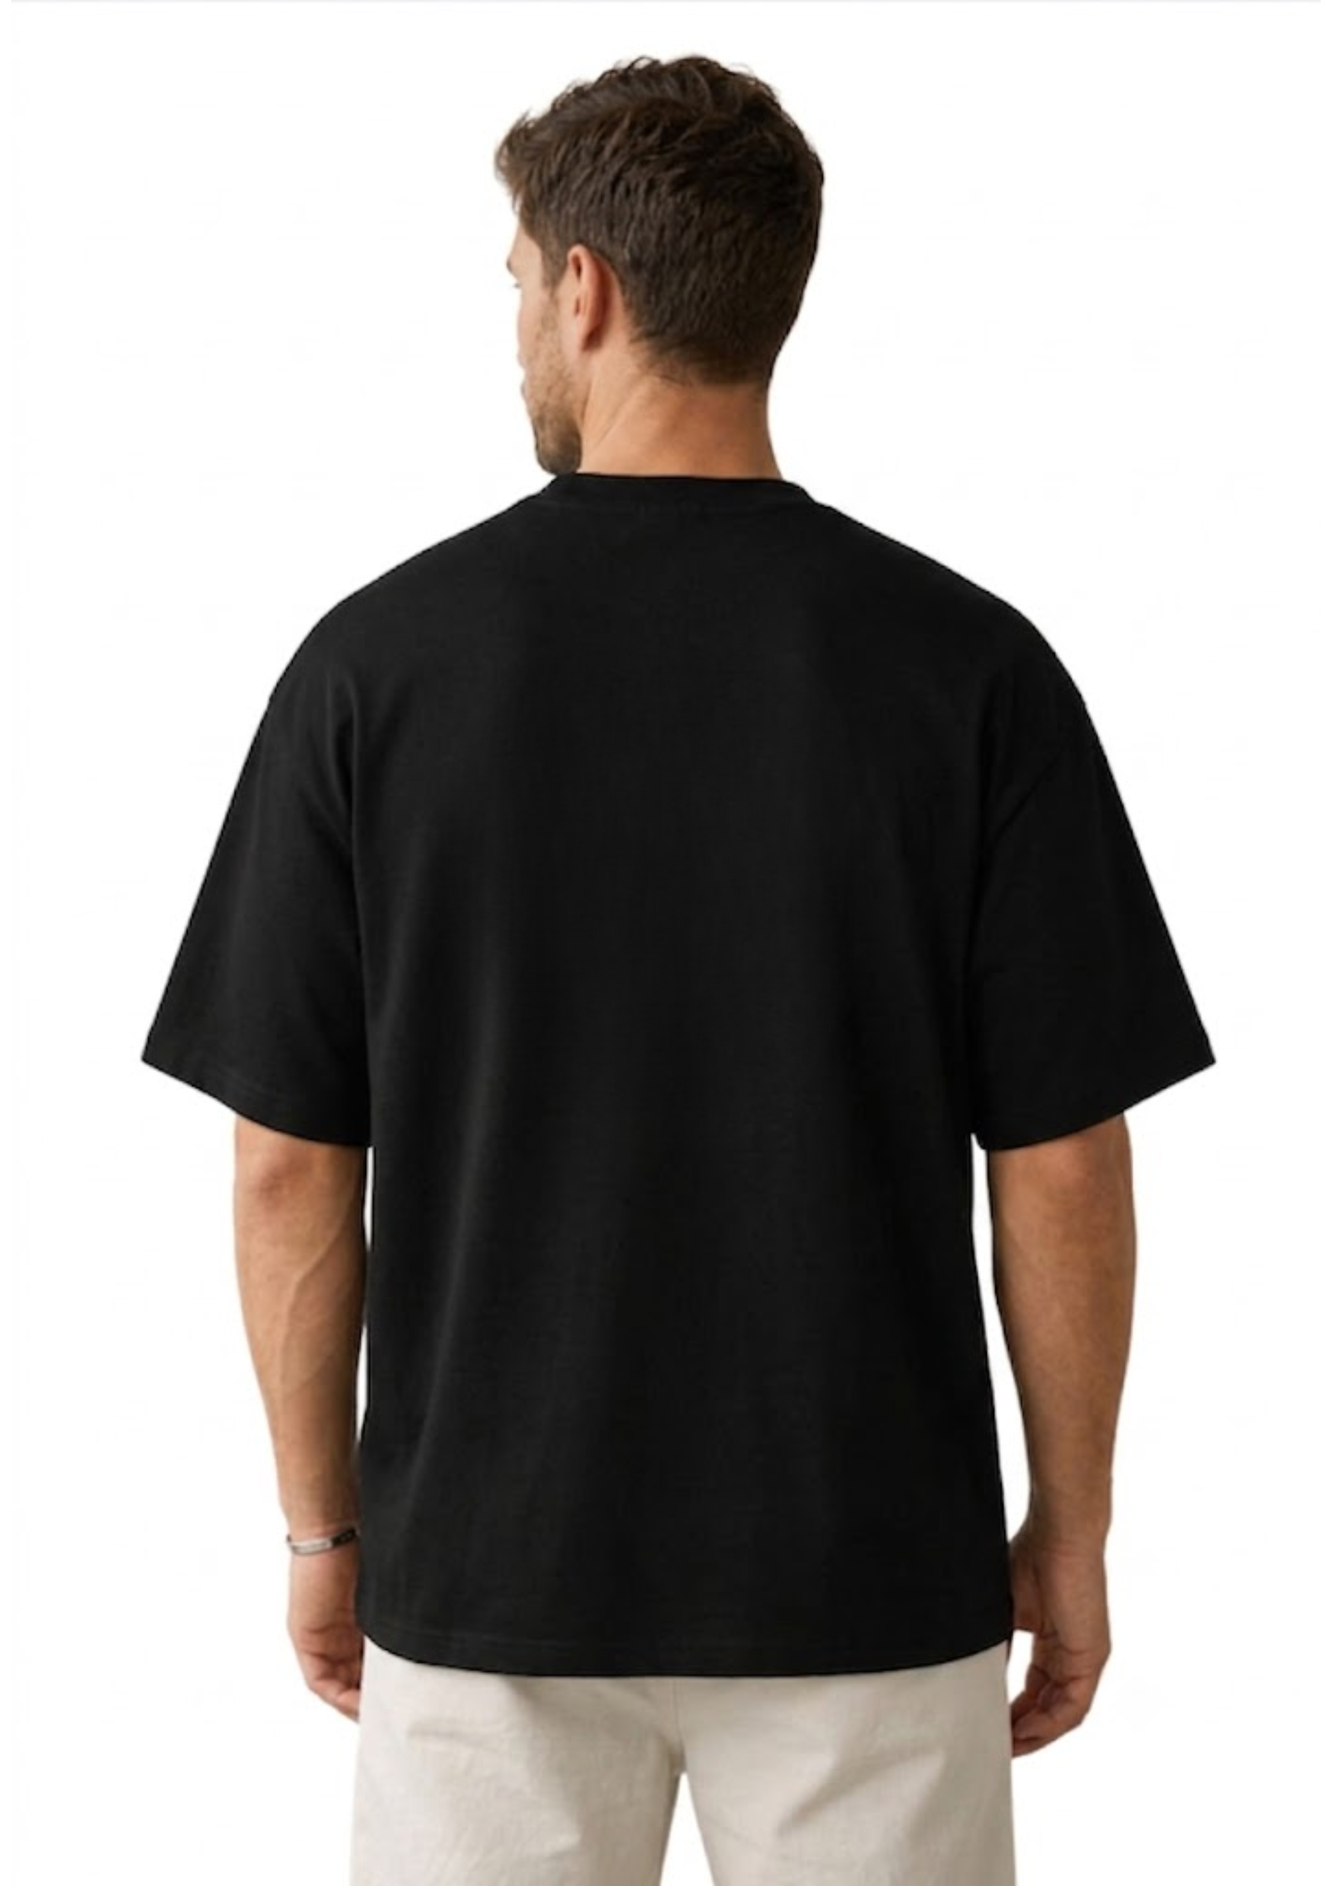
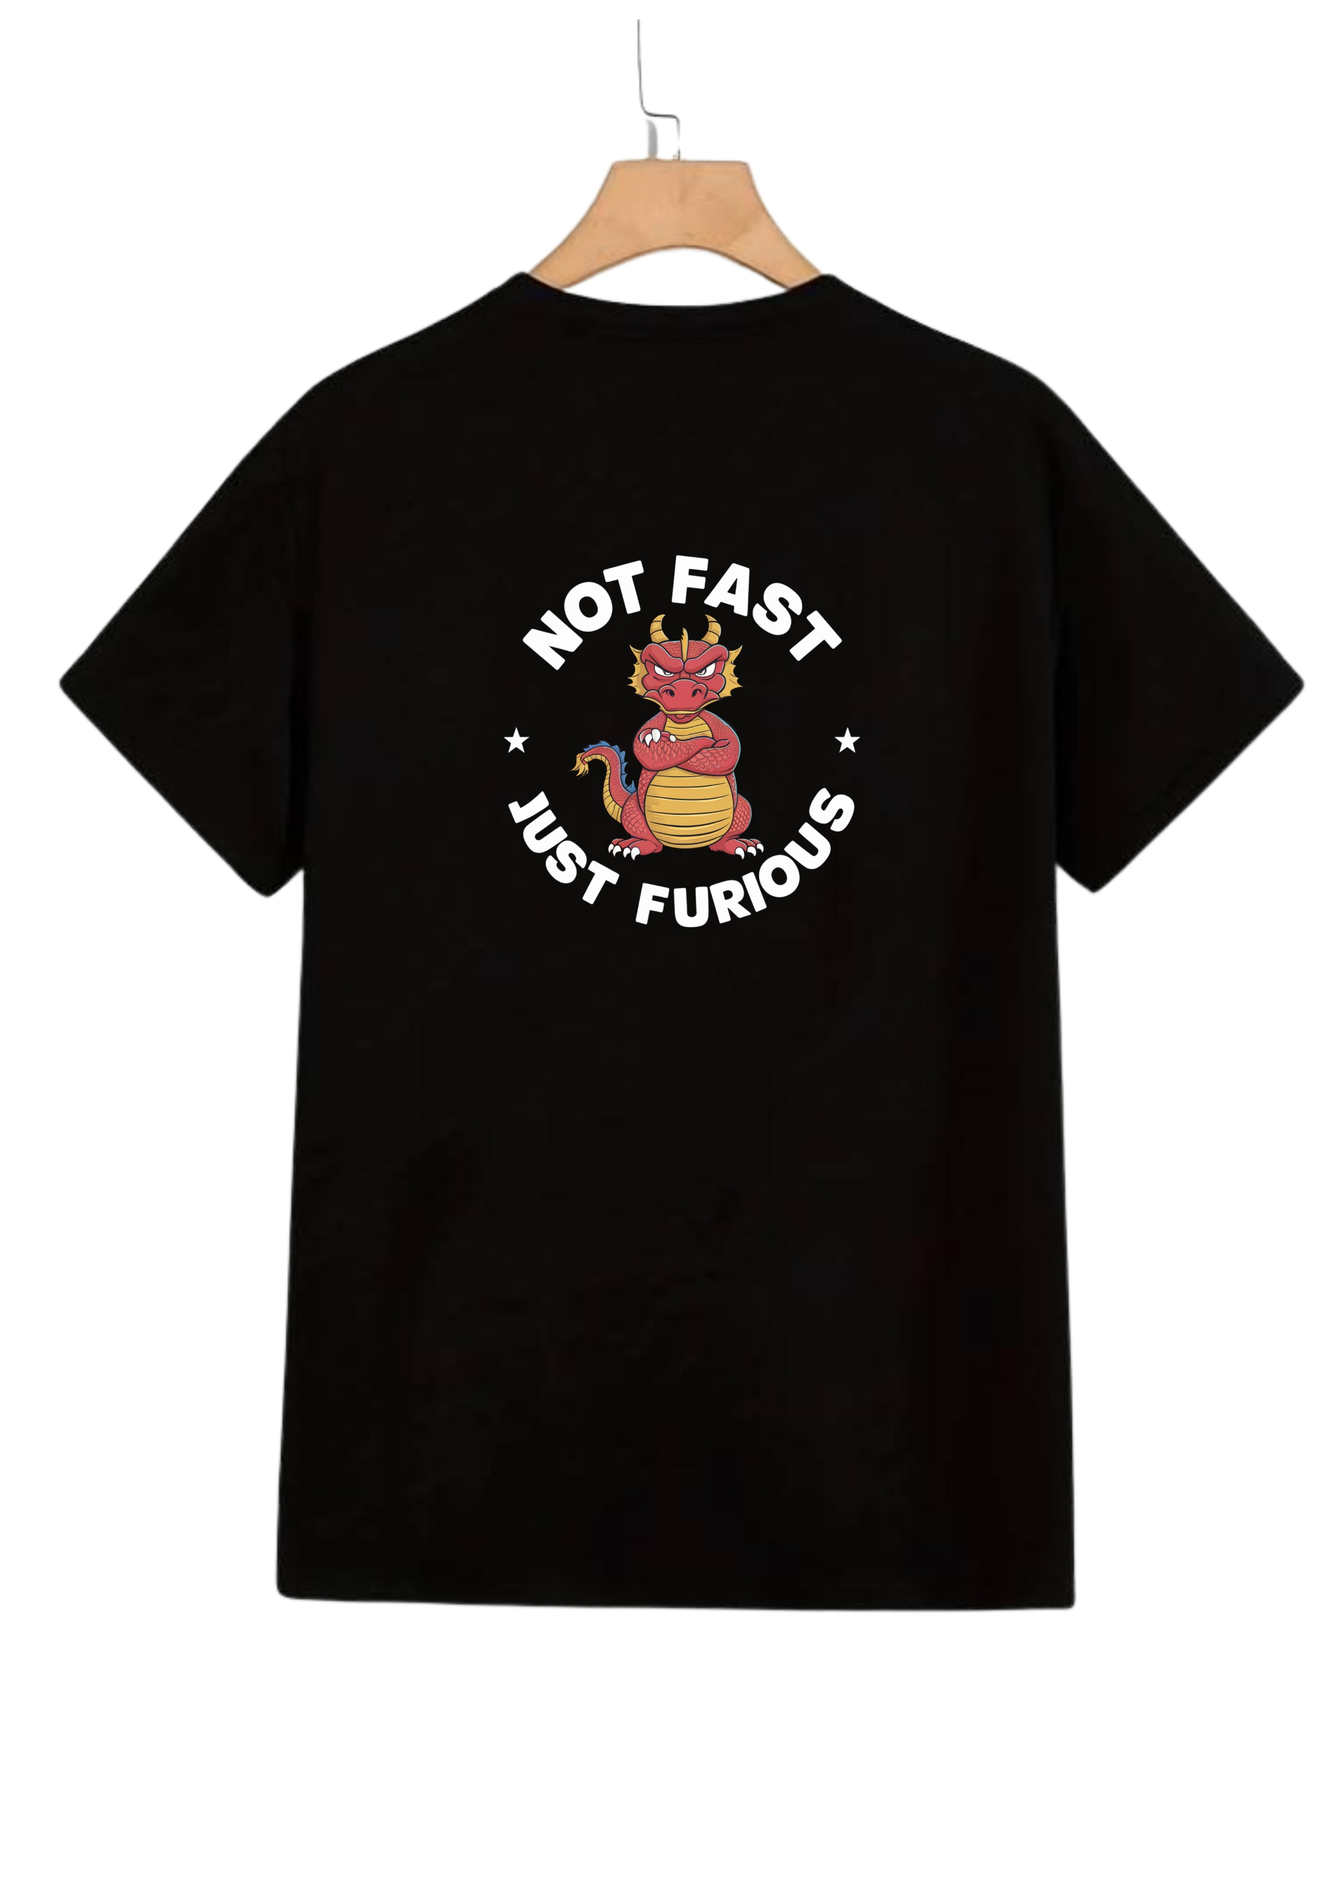
update pictures

diff --git a/assets/generated-products.js b/assets/generated-products.js
@@ -1,1 +1,1 @@
-window.TANVRA_PRODUCTS=[{"id":"oversized-rojana-ek-ghanta","slug":"rojana-ek-ghanta","category":"oversized","name":"Rojana Ek Ghanta Oversized Tee","subtitle":"220 GSM • 100% Cotton • Oversized Fit","price":749,"compareAt":749,"badge":"ODISHA EDITION","fit":"Oversized","gsm":"220 GSM","material":"100% Cotton","print":"Front + back graphic","description":"One hour. Every day. An Odisha-inspired edition celebrating consistency, movement and personal progress, built on our heavyweight 220 GSM oversized silhouette.","sizes":["S","M","L","XL"],"colors":[{"name":"Black","hex":"#111111","image":"products/oversized/rojana-ek-ghanta/front-black-tee.webp"},{"name":"White","hex":"#f4f4f4","image":"products/oversized/rojana-ek-ghanta/front-white-tee.webp"}],"images":["products/oversized/rojana-ek-ghanta/front-black-tee.webp","products/oversized/rojana-ek-ghanta/front-white-tee.webp","products/oversized/rojana-ek-ghanta/back-black-tee.webp","products/oversized/rojana-ek-ghanta/back-white-tee.webp"],"cardImage":"products/oversized/rojana-ek-ghanta/front-black-tee.webp","heroImage":"products/oversized/rojana-ek-ghanta/front-black-tee.webp","featured":true,"sort":1,"collection":"ROJANA EK GHANTA","printTier":"A3"},{"id":"oversized-edge-01","slug":"edge-01","category":"oversized","name":"EDGE-01 Oversized Tee","subtitle":"220 GSM • 100% Cotton • Oversized Fit","price":599,"compareAt":599,"badge":"CORE","fit":"Oversized","gsm":"220 GSM","material":"100% Cotton","print":"Minimal / no large graphic","description":"Built around the silhouette that defines modern streetwear. Heavyweight 220 GSM cotton with a relaxed oversized shape, soft hand-feel and everyday durability. Minimal by design, so the fit does the talking.","sizes":["S","M","L","XL"],"colors":[{"name":"Black","hex":"#111111","image":"products/oversized/edge-01/008-black-model-front.webp"},{"name":"Cream","hex":"#efe3ca","image":"products/oversized/edge-01/004-cream-front.webp"}],"images":["products/oversized/edge-01/008-black-model-front.webp","products/oversized/edge-01/002-black-front.webp","products/oversized/edge-01/003-black-back.webp","products/oversized/edge-01/004-cream-front.webp","products/oversized/edge-01/005-cream-back.webp","products/oversized/edge-01/006-black-front-details.webp","products/oversized/edge-01/007-black-back-detail.webp","products/oversized/edge-01/008-neck-label.webp","products/oversized/edge-01/001-cover.png","products/oversized/edge-01/002-black-front.png","products/oversized/edge-01/003-black-back.png","products/oversized/edge-01/004-cream-front.png","products/oversized/edge-01/005-cream-back.png"],"cardImage":"products/oversized/edge-01/001-cover.png","heroImage":"products/oversized/edge-01/001-cover.png","featured":true,"sort":5,"collection":"ESSENTIALS","printTier":"PLAIN"},{"id":"oversized-core-220","slug":"core-220","category":"oversized","name":"Core 220 Oversized Tee","subtitle":"220 GSM • 100% Cotton • Oversized Fit","price":549,"compareAt":549,"badge":"CORE","fit":"Oversized","gsm":"220 GSM","material":"100% Cotton","print":"Minimal / no large graphic","description":"Built around the silhouette that defines modern streetwear. Heavyweight 220 GSM cotton with a relaxed oversized shape, soft hand-feel and everyday durability. Minimal by design, so the fit does the talking.","sizes":["S","M","L","XL"],"colors":[{"name":"Black","hex":"#111111","image":"products/oversized/core-220/front-black.webp"},{"name":"Beige","hex":"#d8b36f","image":"products/oversized/core-220/front-beige.webp"},{"name":"White","hex":"#f5f5f5","image":"products/oversized/core-220/front-white.webp"},{"name":"Avocado Green","hex":"#446b18","image":"products/oversized/core-220/front-green.webp"}],"images":["products/oversized/core-220/front-beige.webp","products/oversized/core-220/front-black.webp","products/oversized/core-220/front-green.webp","products/oversized/core-220/front-white.webp"],"cardImage":"products/oversized/core-220/front-beige.webp","heroImage":"products/oversized/core-220/front-beige.webp","featured":false,"sort":100,"collection":"ESSENTIALS","printTier":"PLAIN"},{"id":"oversized-ghost-compass","slug":"ghost-compass","category":"oversized","name":"Ghost Compass Oversized Tee","subtitle":"220 GSM • 100% Cotton • Oversized Fit","price":699,"compareAt":699,"badge":"DROP 01","fit":"Oversized","gsm":"220 GSM","material":"100% Cotton","print":"Back graphic","description":"Direction is not always obvious. A statement back graphic built around instinct, exploration and choosing your own route, printed on heavyweight cotton with an oversized streetwear silhouette.","sizes":["S","M","L","XL"],"colors":[{"name":"Black","hex":"#111111","image":"products/oversized/ghost-compass/back-black.webp"},{"name":"Beige","hex":"#d8b36f","image":"products/oversized/ghost-compass/back-beige.webp"},{"name":"White","hex":"#f5f5f5","image":"products/oversized/ghost-compass/back-white.webp"},{"name":"Avocado Green","hex":"#446b18","image":"products/oversized/ghost-compass/back-green.webp"}],"images":["products/oversized/ghost-compass/back-beige.webp","products/oversized/ghost-compass/back-black.webp","products/oversized/ghost-compass/back-green.webp","products/oversized/ghost-compass/back-white.webp"],"cardImage":"products/oversized/ghost-compass/back-beige.webp","heroImage":"products/oversized/ghost-compass/back-beige.webp","featured":false,"sort":100,"collection":"GRAPHIC DROP","printTier":"A2"},{"id":"oversized-not-fast-just-furious","slug":"not-fast-just-furious","category":"oversized","name":"Not Fast Just Furious Oversized Tee","subtitle":"220 GSM • 100% Cotton • Oversized Fit","price":649,"compareAt":649,"badge":"DROP 01","fit":"Oversized","gsm":"220 GSM","material":"100% Cotton","print":"Graphic print","description":"A playful statement graphic with a relaxed heavyweight silhouette—built for everyday rotation without blending into the background.","sizes":["S","M","L","XL"],"colors":[{"name":"As Shown","hex":"#777777","image":"products/oversized/not-fast-just-furious/image-01.jpg"}],"images":["products/oversized/not-fast-just-furious/image-01.jpg","products/oversized/not-fast-just-furious/image-02.jpg","products/oversized/not-fast-just-furious/image-03.jpg","products/oversized/not-fast-just-furious/image-04.jpg","products/oversized/not-fast-just-furious/image-05.jpg","products/oversized/not-fast-just-furious/image-06.jpg","products/oversized/not-fast-just-furious/image-07.jpg","products/oversized/not-fast-just-furious/image-08.jpg","products/oversized/not-fast-just-furious/image-09.jpg","products/oversized/not-fast-just-furious/image-10.jpg","products/oversized/not-fast-just-furious/image-11.jpg","products/oversized/not-fast-just-furious/image-12.jpg"],"cardImage":"products/oversized/not-fast-just-furious/image-01.jpg","heroImage":"products/oversized/not-fast-just-furious/image-01.jpg","featured":false,"sort":100,"collection":"GRAPHIC DROP","printTier":"A3"},{"id":"oversized-unleash-the-beast","slug":"unleash-the-beast","category":"oversized","name":"Unleash The Beast Oversized Tee","subtitle":"220 GSM • 100% Cotton • Oversized Fit","price":649,"compareAt":649,"badge":"DROP 01","fit":"Oversized","gsm":"220 GSM","material":"100% Cotton","print":"Large back graphic","description":"Controlled energy. Unfiltered expression. A bold oversized graphic tee designed around strength, motion and presence.","sizes":["S","M","L","XL"],"colors":[{"name":"As Shown","hex":"#777777","image":"products/oversized/unleash-the-beast/image-01.jpg"}],"images":["products/oversized/unleash-the-beast/image-01.jpg","products/oversized/unleash-the-beast/image-02.jpg","products/oversized/unleash-the-beast/image-03.jpg","products/oversized/unleash-the-beast/image-04.jpg","products/oversized/unleash-the-beast/image-05.jpg","products/oversized/unleash-the-beast/image-06.jpg","products/oversized/unleash-the-beast/image-07.jpg","products/oversized/unleash-the-beast/image-08.jpg","products/oversized/unleash-the-beast/image-09.jpg","products/oversized/unleash-the-beast/image-10.jpg","products/oversized/unleash-the-beast/image-11.jpg","products/oversized/unleash-the-beast/image-12.jpg"],"cardImage":"products/oversized/unleash-the-beast/image-01.jpg","heroImage":"products/oversized/unleash-the-beast/image-01.jpg","featured":false,"sort":100,"collection":"GRAPHIC DROP","printTier":"A2"},{"id":"oversized-wild-instinct","slug":"wild-instinct","category":"oversized","name":"Wild Instinct Oversized Tee","subtitle":"220 GSM • 100% Cotton • Oversized Fit","price":649,"compareAt":649,"badge":"DROP 01","fit":"Oversized","gsm":"220 GSM","material":"100% Cotton","print":"Front graphic","description":"Some things should not be overthought. A clean front-focused streetwear piece built for effortless daily rotation on our 220 GSM oversized base.","sizes":["S","M","L","XL"],"colors":[{"name":"Black","hex":"#111111","image":"products/oversized/wild-instinct/front-black.webp"},{"name":"Avocado Green","hex":"#446b18","image":"products/oversized/wild-instinct/front-green.webp"},{"name":"Brown","hex":"#321d14","image":"products/oversized/wild-instinct/front-brown.webp"}],"images":["products/oversized/wild-instinct/front-black.webp","products/oversized/wild-instinct/front-brown.webp","products/oversized/wild-instinct/front-green.webp","products/oversized/wild-instinct/detail-green.webp"],"cardImage":"products/oversized/wild-instinct/front-black.webp","heroImage":"products/oversized/wild-instinct/front-black.webp","featured":false,"sort":100,"collection":"GRAPHIC DROP","printTier":"A4"}];
+window.TANVRA_PRODUCTS=[{"id":"oversized-rojana-ek-ghanta","slug":"rojana-ek-ghanta","category":"oversized","name":"Rojana Ek Ghanta Oversized Tee","subtitle":"220 GSM • 100% Cotton • Oversized Fit","price":749,"compareAt":749,"badge":"ODISHA EDITION","fit":"Oversized","gsm":"220 GSM","material":"100% Cotton","print":"Front + back graphic","description":"One hour. Every day. An Odisha-inspired edition celebrating consistency, movement and personal progress, built on our heavyweight 220 GSM oversized silhouette.","sizes":["S","M","L","XL"],"colors":[{"name":"Black","hex":"#111111","image":"products/oversized/rojana-ek-ghanta/front-black-tee.webp"},{"name":"White","hex":"#f4f4f4","image":"products/oversized/rojana-ek-ghanta/front-white-tee.webp"}],"images":["products/oversized/rojana-ek-ghanta/front-black-tee.webp","products/oversized/rojana-ek-ghanta/front-white-tee.webp","products/oversized/rojana-ek-ghanta/back-black-tee.webp","products/oversized/rojana-ek-ghanta/back-white-tee.webp"],"cardImage":"products/oversized/rojana-ek-ghanta/front-black-tee.webp","heroImage":"products/oversized/rojana-ek-ghanta/front-black-tee.webp","featured":true,"sort":1,"collection":"ROJANA EK GHANTA","printTier":"A3"},{"id":"oversized-edge-01","slug":"edge-01","category":"oversized","name":"EDGE-01 Oversized Tee","subtitle":"220 GSM • 100% Cotton • Oversized Fit","price":599,"compareAt":599,"badge":"CORE","fit":"Oversized","gsm":"220 GSM","material":"100% Cotton","print":"Minimal / no large graphic","description":"Built around the silhouette that defines modern streetwear. Heavyweight 220 GSM cotton with a relaxed oversized shape, soft hand-feel and everyday durability. Minimal by design, so the fit does the talking.","sizes":["S","M","L","XL"],"colors":[{"name":"Black","hex":"#111111","image":"products/oversized/edge-01/008-black-model-front.png"},{"name":"Cream","hex":"#efe3ca","image":"products/oversized/edge-01/004-cream-front.png"}],"images":["products/oversized/edge-01/008-black-model-front.png","products/oversized/edge-01/002-black-front.png","products/oversized/edge-01/003-black-back.png","products/oversized/edge-01/004-cream-front.png","products/oversized/edge-01/005-cream-back.png","products/oversized/edge-01/006-black-front-details.png","products/oversized/edge-01/007-black-back-detail.png","products/oversized/edge-01/008-neck-label.png","products/oversized/edge-01/001-cover.png"],"cardImage":"products/oversized/edge-01/001-cover.png","heroImage":"products/oversized/edge-01/001-cover.png","featured":true,"sort":5,"collection":"ESSENTIALS","printTier":"PLAIN"},{"id":"oversized-core-220","slug":"core-220","category":"oversized","name":"Core 220 Oversized Tee","subtitle":"220 GSM • 100% Cotton • Oversized Fit","price":549,"compareAt":549,"badge":"CORE","fit":"Oversized","gsm":"220 GSM","material":"100% Cotton","print":"Minimal / no large graphic","description":"Built around the silhouette that defines modern streetwear. Heavyweight 220 GSM cotton with a relaxed oversized shape, soft hand-feel and everyday durability. Minimal by design, so the fit does the talking.","sizes":["S","M","L","XL"],"colors":[{"name":"Black","hex":"#111111","image":"products/oversized/core-220/front-black.webp"},{"name":"Beige","hex":"#d8b36f","image":"products/oversized/core-220/front-beige.webp"},{"name":"White","hex":"#f5f5f5","image":"products/oversized/core-220/front-white.webp"},{"name":"Avocado Green","hex":"#446b18","image":"products/oversized/core-220/front-green.webp"}],"images":["products/oversized/core-220/front-beige.webp","products/oversized/core-220/front-black.webp","products/oversized/core-220/front-green.webp","products/oversized/core-220/front-white.webp"],"cardImage":"products/oversized/core-220/front-beige.webp","heroImage":"products/oversized/core-220/front-beige.webp","featured":false,"sort":100,"collection":"ESSENTIALS","printTier":"PLAIN"},{"id":"oversized-ghost-compass","slug":"ghost-compass","category":"oversized","name":"Ghost Compass Oversized Tee","subtitle":"220 GSM • 100% Cotton • Oversized Fit","price":699,"compareAt":699,"badge":"DROP 01","fit":"Oversized","gsm":"220 GSM","material":"100% Cotton","print":"Back graphic","description":"Direction is not always obvious. A statement back graphic built around instinct, exploration and choosing your own route, printed on heavyweight cotton with an oversized streetwear silhouette.","sizes":["S","M","L","XL"],"colors":[{"name":"Black","hex":"#111111","image":"products/oversized/ghost-compass/back-black.webp"},{"name":"Beige","hex":"#d8b36f","image":"products/oversized/ghost-compass/back-beige.webp"},{"name":"White","hex":"#f5f5f5","image":"products/oversized/ghost-compass/back-white.webp"},{"name":"Avocado Green","hex":"#446b18","image":"products/oversized/ghost-compass/back-green.webp"}],"images":["products/oversized/ghost-compass/back-beige.webp","products/oversized/ghost-compass/back-black.webp","products/oversized/ghost-compass/back-green.webp","products/oversized/ghost-compass/back-white.webp"],"cardImage":"products/oversized/ghost-compass/back-beige.webp","heroImage":"products/oversized/ghost-compass/back-beige.webp","featured":false,"sort":100,"collection":"GRAPHIC DROP","printTier":"A2"},{"id":"oversized-not-fast-just-furious","slug":"not-fast-just-furious","category":"oversized","name":"Not Fast Just Furious Oversized Tee","subtitle":"220 GSM • 100% Cotton • Oversized Fit","price":649,"compareAt":649,"badge":"DROP 01","fit":"Oversized","gsm":"220 GSM","material":"100% Cotton","print":"Graphic print","description":"A playful statement graphic with a relaxed heavyweight silhouette—built for everyday rotation without blending into the background.","sizes":["S","M","L","XL"],"colors":[{"name":"As Shown","hex":"#777777","image":"products/oversized/not-fast-just-furious/image-01.jpg"}],"images":["products/oversized/not-fast-just-furious/image-01.jpg","products/oversized/not-fast-just-furious/image-02.jpg","products/oversized/not-fast-just-furious/image-03.jpg","products/oversized/not-fast-just-furious/image-04.jpg","products/oversized/not-fast-just-furious/image-05.jpg","products/oversized/not-fast-just-furious/image-06.jpg","products/oversized/not-fast-just-furious/image-07.jpg","products/oversized/not-fast-just-furious/image-08.jpg","products/oversized/not-fast-just-furious/image-09.jpg","products/oversized/not-fast-just-furious/image-10.jpg","products/oversized/not-fast-just-furious/image-11.jpg","products/oversized/not-fast-just-furious/image-12.jpg"],"cardImage":"products/oversized/not-fast-just-furious/image-01.jpg","heroImage":"products/oversized/not-fast-just-furious/image-01.jpg","featured":false,"sort":100,"collection":"GRAPHIC DROP","printTier":"A3"},{"id":"oversized-unleash-the-beast","slug":"unleash-the-beast","category":"oversized","name":"Unleash The Beast Oversized Tee","subtitle":"220 GSM • 100% Cotton • Oversized Fit","price":649,"compareAt":649,"badge":"DROP 01","fit":"Oversized","gsm":"220 GSM","material":"100% Cotton","print":"Large back graphic","description":"Controlled energy. Unfiltered expression. A bold oversized graphic tee designed around strength, motion and presence.","sizes":["S","M","L","XL"],"colors":[{"name":"As Shown","hex":"#777777","image":"products/oversized/unleash-the-beast/image-01.jpg"}],"images":["products/oversized/unleash-the-beast/image-01.jpg","products/oversized/unleash-the-beast/image-02.jpg","products/oversized/unleash-the-beast/image-03.jpg","products/oversized/unleash-the-beast/image-04.jpg","products/oversized/unleash-the-beast/image-05.jpg","products/oversized/unleash-the-beast/image-06.jpg","products/oversized/unleash-the-beast/image-07.jpg","products/oversized/unleash-the-beast/image-08.jpg","products/oversized/unleash-the-beast/image-09.jpg","products/oversized/unleash-the-beast/image-10.jpg","products/oversized/unleash-the-beast/image-11.jpg","products/oversized/unleash-the-beast/image-12.jpg"],"cardImage":"products/oversized/unleash-the-beast/image-01.jpg","heroImage":"products/oversized/unleash-the-beast/image-01.jpg","featured":false,"sort":100,"collection":"GRAPHIC DROP","printTier":"A2"},{"id":"oversized-wild-instinct","slug":"wild-instinct","category":"oversized","name":"Wild Instinct Oversized Tee","subtitle":"220 GSM • 100% Cotton • Oversized Fit","price":649,"compareAt":649,"badge":"DROP 01","fit":"Oversized","gsm":"220 GSM","material":"100% Cotton","print":"Front graphic","description":"Some things should not be overthought. A clean front-focused streetwear piece built for effortless daily rotation on our 220 GSM oversized base.","sizes":["S","M","L","XL"],"colors":[{"name":"Black","hex":"#111111","image":"products/oversized/wild-instinct/front-black.webp"},{"name":"Avocado Green","hex":"#446b18","image":"products/oversized/wild-instinct/front-green.webp"},{"name":"Brown","hex":"#321d14","image":"products/oversized/wild-instinct/front-brown.webp"}],"images":["products/oversized/wild-instinct/front-black.webp","products/oversized/wild-instinct/front-brown.webp","products/oversized/wild-instinct/front-green.webp","products/oversized/wild-instinct/detail-green.webp"],"cardImage":"products/oversized/wild-instinct/front-black.webp","heroImage":"products/oversized/wild-instinct/front-black.webp","featured":false,"sort":100,"collection":"GRAPHIC DROP","printTier":"A4"}];
